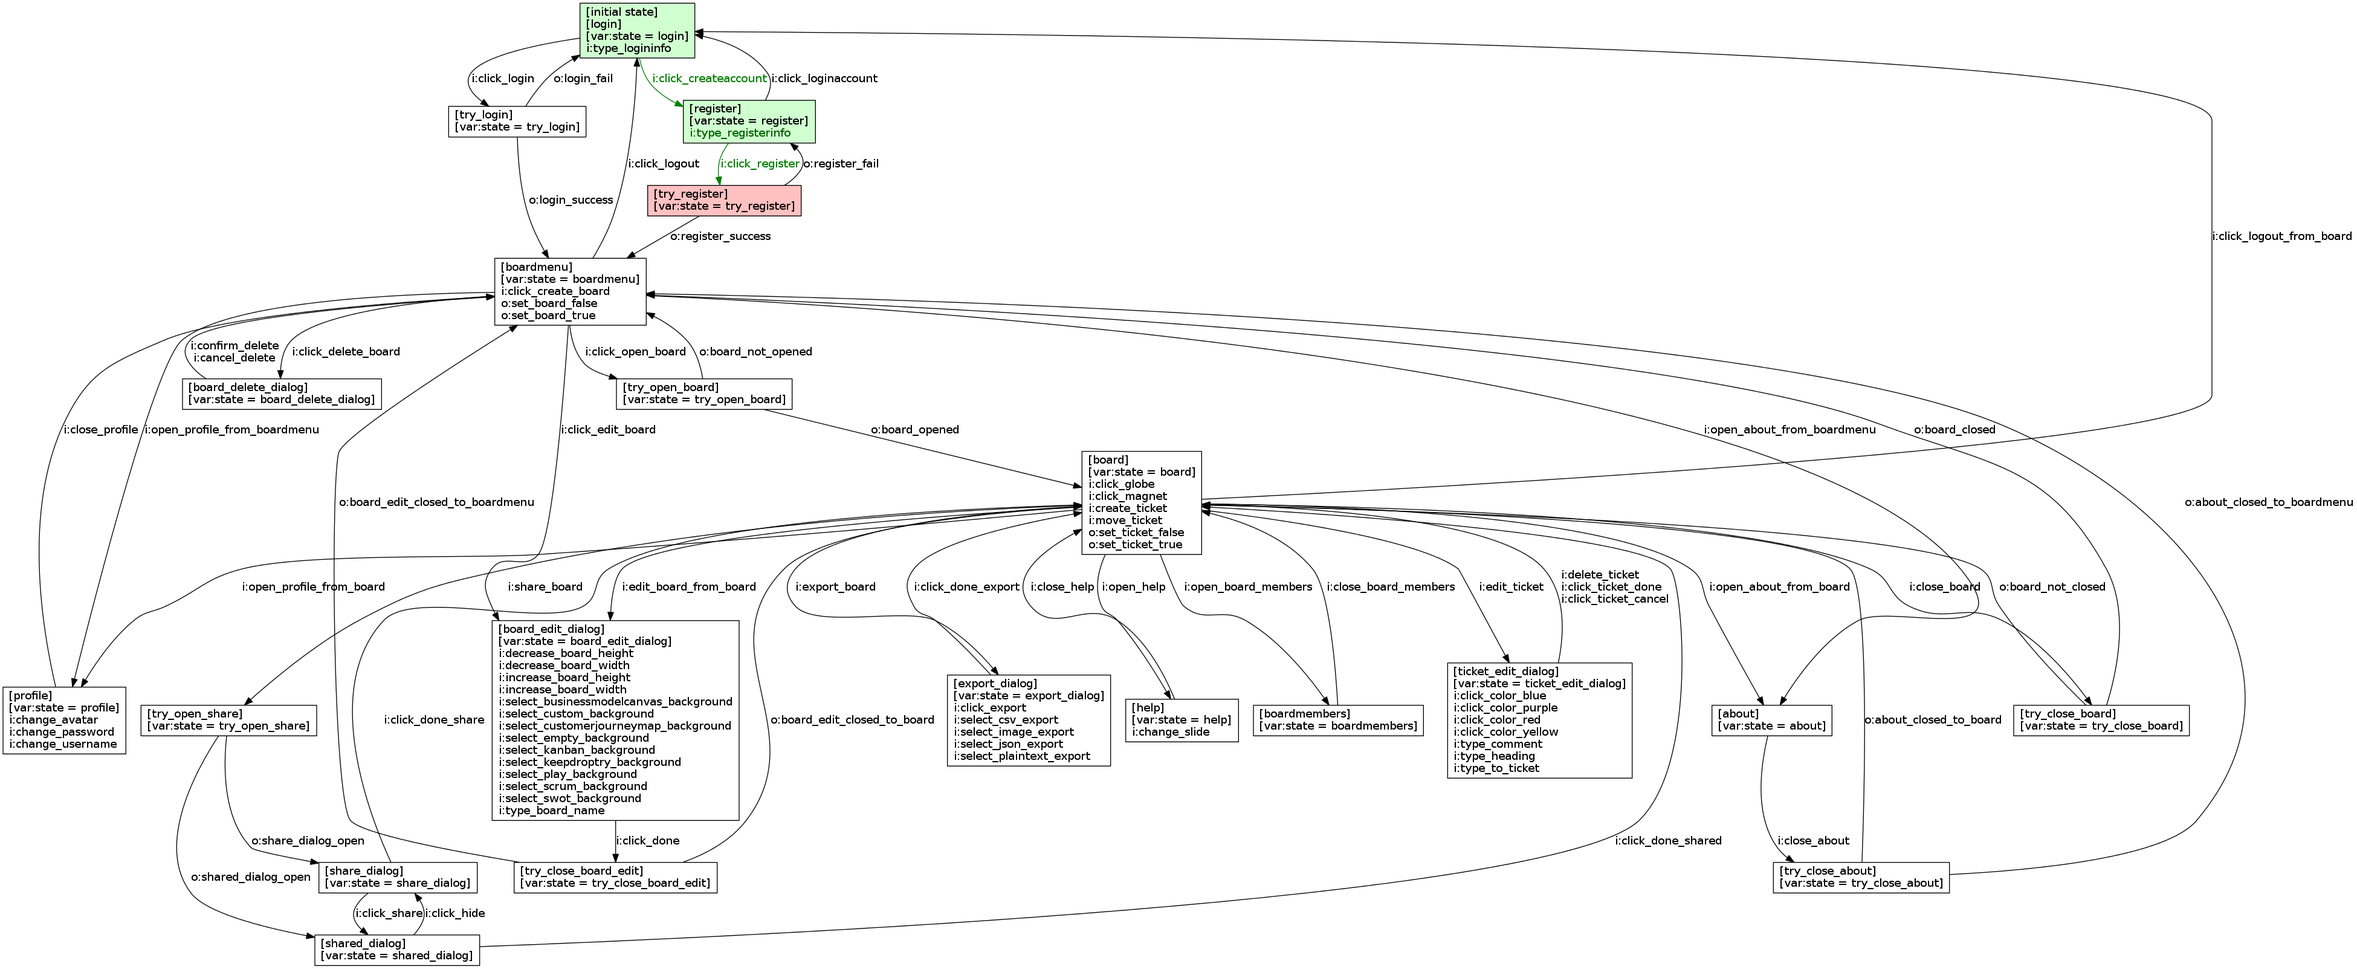
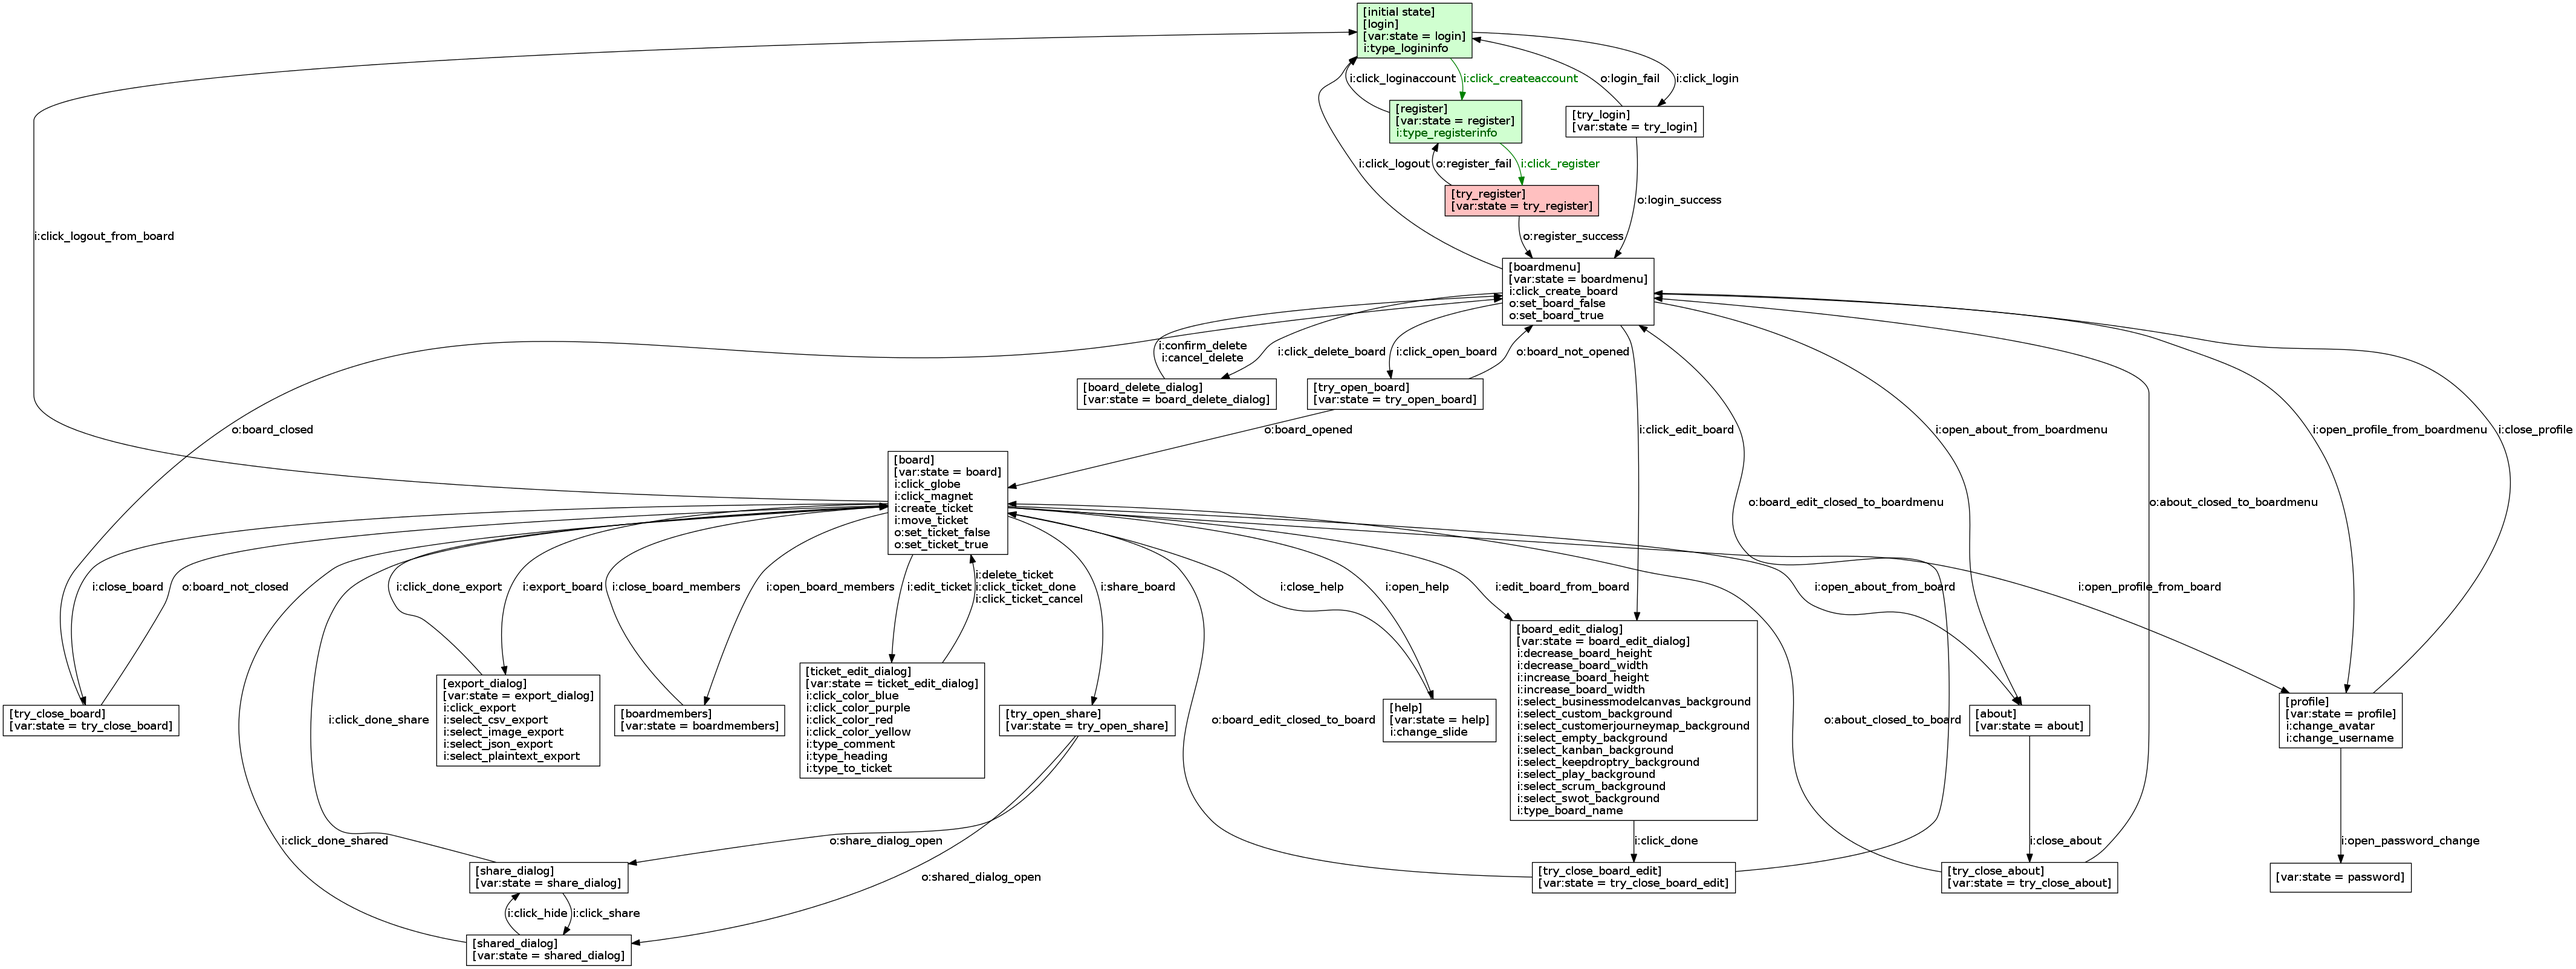
Add profile and password change view

diff --git a/fmbt/Contriboard/adapters/seleniumadapter.py b/fmbt/Contriboard/adapters/seleniumadapter.py
@@ -33,10 +33,14 @@ pollTime = 0.3
 
 timeoutTime = 2.0
 
+usename = "testbaboon"
 email = "testbaboon@test.com"
 password = "t3stmonkey"
+newpassword = "t3stbaboon"
 
 custombackground = "http://bit.ly/1cMN0rG"
+
+avatar = "http://bit.ly/1O2SFXv"
 
 stateAssets = {
 	"login" 	: ["//input[@value='Login']"],
@@ -538,21 +542,42 @@ def openProfile():
 	drive.find_element_by_xpath("//span[@class='fa fa-fw fa-user']").click()
 	wait()
 
-def closeProfile():
+def closeProfileView():
 	rs()
 	driver.find_element_by_xpath("//li[@id='Workspace']").click()
 	wait()
 
 def changeUsername():
 	rs()
-	wait()
-
-def changePassword():
-	rs()
+	driver.find_element_by_xpath("//input[@id='name']").send_keys(username)
+	driver.find_element_by_xpath("//input[@class='btn-primary']").click()
 	wait()
 
 def changeAvatar():
 	rs()
+	driver.find_element_by_xpath("//input[@id='avatar']").send_keys(avatar)
+	driver.find_element_by_xpath("//input[@class='btn-primary']").click()
+	wait()
+
+# password change
+
+def openPasswordChange():
+	rs()
+	driver.find_element_by_xpath("//li[@id='Password']").click()
+	wait()
+
+def openProfileView():
+	rs()
+	driver.find_element_by_xpath("//li[@id='Profile settings']").click()
+	wait()
+
+def changePassword():
+	rs()
+	driver.find_element_by_xpath("//input[@id='oldPassword']").send_keys(password)
+	password = newpassword
+	driver.find_element_by_xpath("//input[@id='newPassword']").send_keys(password)
+	driver.find_element_by_xpath("//input[@id='newPasswordAgain']").send_keys(password)
+	drive.find_element_by_xpath("//input[@class='btn-primary']").click()
 	wait()
 
 # about
